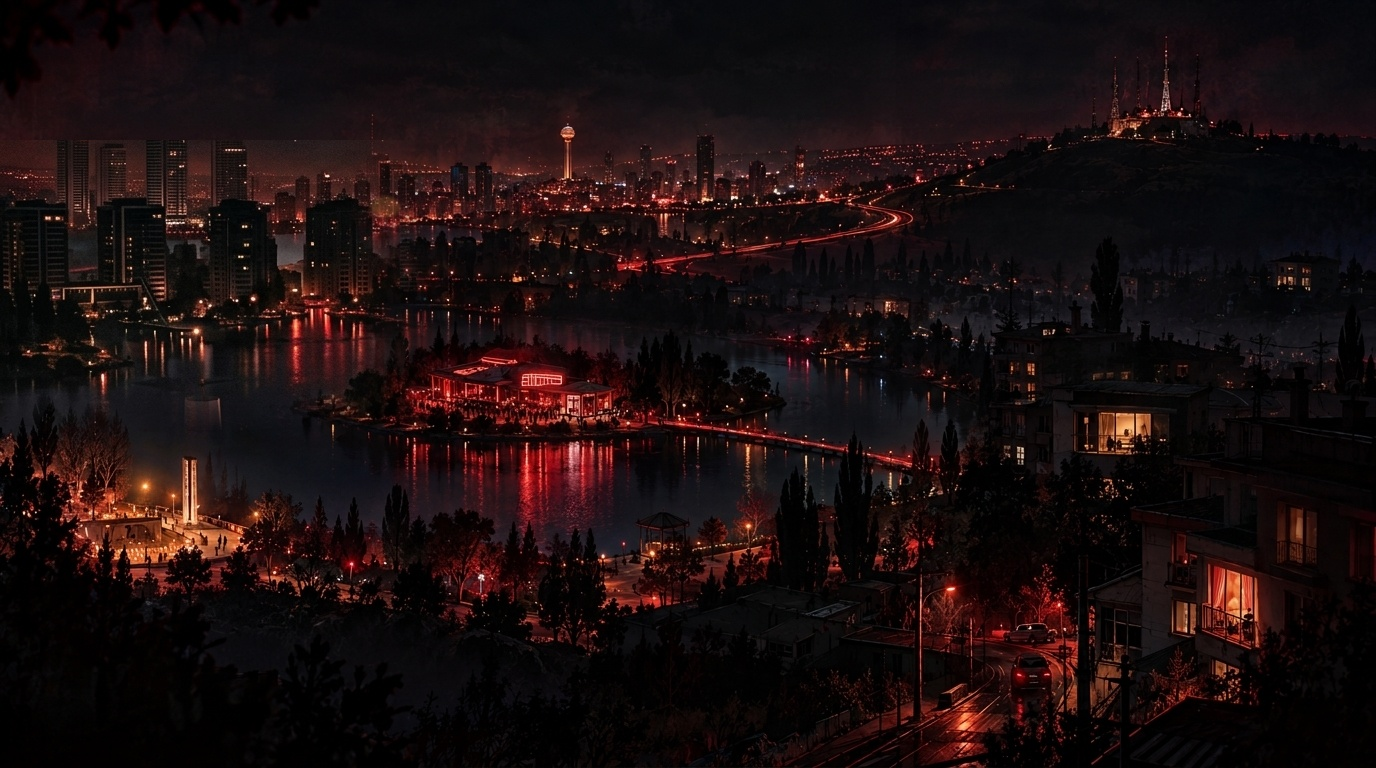
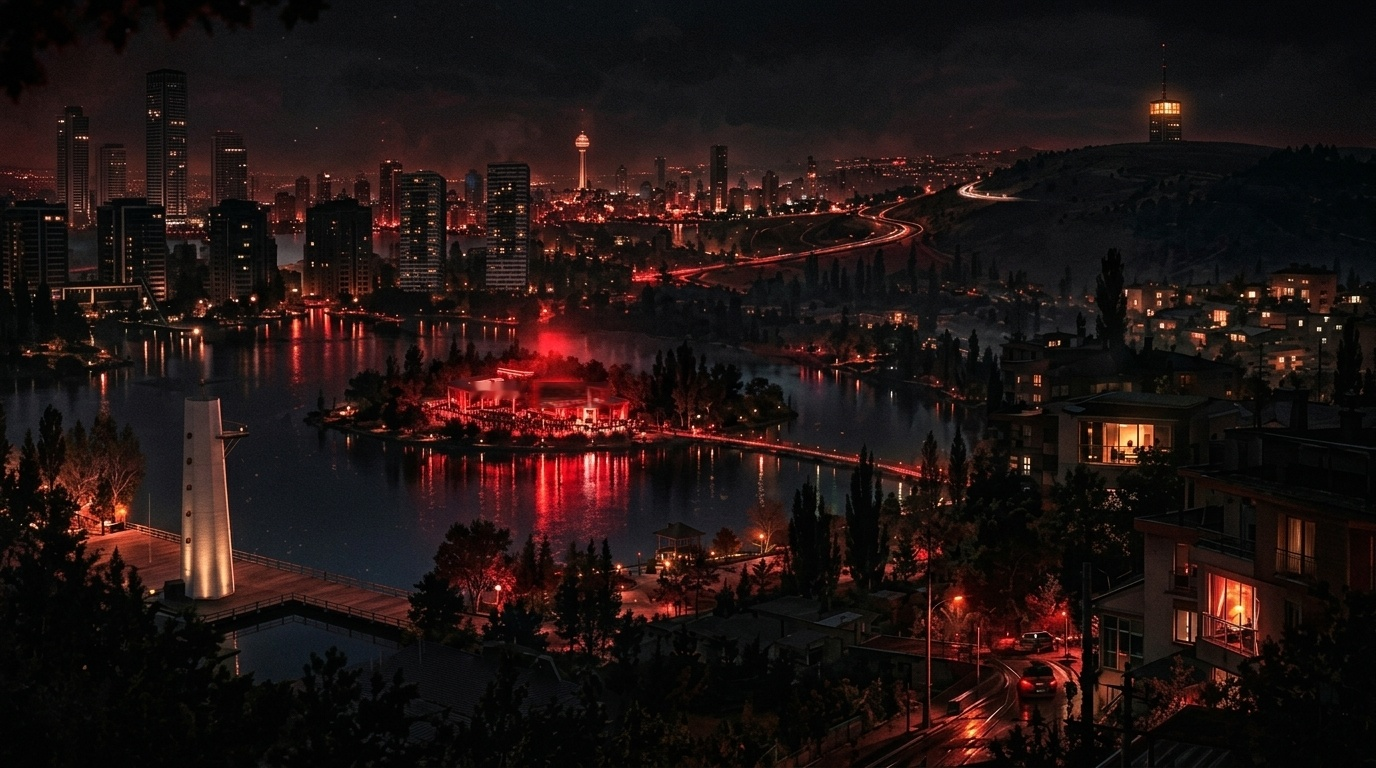
fix(sussuz): restore canon cast Tekin/Murad & Yusuf/Kerem with open-top Mustang 06 KNN 03, clean master map with no tacky signs, and fix Bahar memorial cake scene

Changed region(s): [[0.0, 0.0938, 1.0, 1.0], [0.5312, 0.9688, 0.5938, 1.0], [0.875, 0.5, 0.9062, 0.5312]]

diff --git a/sussuz/assets/js/app.js b/sussuz/assets/js/app.js
@@ -19,13 +19,13 @@ document.addEventListener("DOMContentLoaded", () => {
       ctaTarget: "ritim_interior",
       image: "assets/img/loc_ritim.jpg",
       characterId: "ekrem",
-      characterName: "Ekrem ve Murat",
+      characterName: "Kerem ve Murad",
       characterRole: "Kulüp Önü ve Bağlantı Yolu",
-      atmosphere: "Gerçekte Göksu Parkı'ndaki adada yer alan restoranın yerine konumlanan gece kulübü. Girişte bekleyen kalabalık, kapı güvenliği ve yoldan uzaklaşmakta olan Murat'ın arabası.",
+      atmosphere: "Gerçekte Göksu Parkı'ndaki adada yer alan restoranın yerine konumlanan gece kulübü. Girişte bekleyen kalabalık, kapı güvenliği ve yoldan uzaklaşmakta olan Murad'ın arabası.",
       musicNote: "Filtrelenmiş 4/4 Sub-Bass & Araba Uğultusu",
       subvenues: [
         { id: "ritim_interior", label: "İçeri Gir (Genel Salon)" },
-        { id: "ritim_road", label: "Murat'ı Durdur (Yol Sahnesi)" }
+        { id: "ritim_road", label: "Murad'ı Durdur (Yol Sahnesi)" }
       ],
       noteOrigin: "RİTİM Giriş Panosu",
       props: [
@@ -39,11 +39,11 @@ document.addEventListener("DOMContentLoaded", () => {
           target: "ritim_interior"
         },
         {
-          name: "MURAT'I DURDUR",
+          name: "MURAD'I DURDUR",
           icon: "✋",
           thumb: "assets/img/props/prop_murat_hill.jpg",
           subtitle: "1. BÖLÜM FİNALİ",
-          desc: "Ekrem'in yola atlayarak arabayı durdurduğu 1. bölüm final sahnesi.",
+          desc: "Kerem'in yola atlayarak arabayı durdurduğu 1. bölüm final sahnesi.",
           action: "fly_subvenue",
           target: "ritim_road"
         }
@@ -63,12 +63,12 @@ document.addEventListener("DOMContentLoaded", () => {
       ctaAudio: "KFrAv440Rmg",
       image: "assets/img/loc_ritim_interior.jpg",
       characterId: "murat_ekrem_balcony",
-      characterName: "Murat ve Ekrem",
+      characterName: "Murad ve Kerem",
       characterRole: "Pist Kenarında Sahneye Bakış // 'Oğlum...'",
-      atmosphere: "Müzik değişiyor. Karanlık ekranlar bir anda açılıyor. Dev ekranda KENAN, RİTİM logosu... Yeni parçanın prömiyeri: HIRSIZ. İlk beat giriyor, kalabalık bağırıyor. Murat duruyor; oğlunu ekranda görüyor. Ekrem elini uzatıyor: 'Oğlunun şarkısında surat asma. Ayıp lan çocuğa!'",
+      atmosphere: "Müzik değişiyor. Karanlık ekranlar bir anda açılıyor. Dev ekranda KENAN, RİTİM logosu... Yeni parçanın prömiyeri: HIRSIZ. İlk beat giriyor, kalabalık bağırıyor. Murad duruyor; oğlunu ekranda görüyor. Kerem elini uzatıyor: 'Oğlunun şarkısında surat asma. Ayıp lan çocuğa!'",
       musicNote: "HIRSIZ — Kenan Sahne Prömiyeri (124 BPM)",
       subvenues: [
-        { id: "dancefloor", label: "Murat'ı Dansa Götür (Pist)" },
+        { id: "dancefloor", label: "Murad'ı Dansa Götür (Pist)" },
         { id: "goksu_room", label: "Göksu'nun Cam Ofisi" },
         { id: "ritim_vip", label: "VIP Loca (Yazılıyor :D)" },
         { id: "ritim_backstage", label: "Backstage / Kulis" },
@@ -96,11 +96,11 @@ document.addEventListener("DOMContentLoaded", () => {
           target: "goksu_room"
         },
         {
-          name: "MURAT VE EKREM",
+          name: "MURAD VE KEREM",
           icon: "💬",
           thumb: "assets/img/props/prop_murat_ekrem.jpg",
           subtitle: "'OĞLUM...' DİYALOĞU",
-          desc: "Murat oğlunu dev ekranda görünce donakalır: 'Ben yapamadım... Göksu yaptı.'",
+          desc: "Murad oğlunu dev ekranda görünce donakalır: 'Ben yapamadım... Göksu yaptı.'",
           action: "dialogue",
           charId: "murat_ekrem_balcony"
         },
@@ -109,7 +109,7 @@ document.addEventListener("DOMContentLoaded", () => {
           icon: "⚡",
           thumb: "assets/img/props/prop_dancefloor.jpg",
           subtitle: "KALABALIK VE TEMAS",
-          desc: "Ekrem elini uzatır, Murat'ı gülerek pistin içine çeker.",
+          desc: "Kerem elini uzatır, Murad'ı gülerek pistin içine çeker.",
           action: "fly_subvenue",
           target: "dancefloor"
         }
@@ -125,13 +125,13 @@ document.addEventListener("DOMContentLoaded", () => {
       time: "04:30",
       period: "Günümüz",
       ctaIcon: "✋",
-      ctaText: "MURAT'I DURDUR",
+      ctaText: "MURAD'I DURDUR",
       ctaAction: "prop",
       image: "assets/img/loc_ritim_road.jpg",
       characterId: "ekrem",
-      characterName: "Ekrem ve Murat",
+      characterName: "Kerem ve Murad",
       characterRole: "1. Bölüm Finali // Dönüm Noktası",
-      atmosphere: "1. Bölüm final sahnesi. Yağmur ıslaklığı, asfalt parıltısı. Ekrem tam arabaya binecekken Murat'ı durdurur: 'Sana gerisini göstereceğim.' Murat arabayı kilitler, geri döner. İki yabancının kaderinin düğümlendiği an.",
+      atmosphere: "1. Bölüm final sahnesi. Yağmur ıslaklığı, asfalt parıltısı. Kerem tam arabaya binecekken Murad'ı durdurur: 'Sana gerisini göstereceğim.' Murad arabayı kilitler, geri döner. İki yabancının kaderinin düğümlendiği an.",
       musicNote: "Bilmem, Ben De — Kuru Gece Ayazı",
       subvenues: [
         { id: "ritim", label: "Giriş / Ada" },
@@ -170,9 +170,9 @@ document.addEventListener("DOMContentLoaded", () => {
       ctaAction: "prop",
       image: "assets/img/scene_dancefloor.png",
       characterId: "ekrem",
-      characterName: "Ekrem ve Murat",
+      characterName: "Kerem ve Murad",
       characterRole: "Pist İçi Yakınlaşma",
-      atmosphere: "Ritim'in dans pisti. Baslar duvarları titretiyor. Ekrem Murat'ın ensesine dokunur: 'Öbür tarafa gitsen bara giricen.' Murat güler. MURAT: 'Olm, polisim ben!' — EKREM: 'Merhaba ben de torbacı :D'",
+      atmosphere: "Ritim'in dans pisti. Baslar duvarları titretiyor. Kerem Murad'ın ensesine dokunur: 'Öbür tarafa gitsen bara giricen.' Murad güler. MURAD: 'Olm, polisim ben!' — KEREM: 'Merhaba ben de torbacı :D Kerem ben… Si ile… ama sen kısaca Eku diyebilirsin'",
       musicNote: "HIRSIZ — Dans Pisti Miksi (Club Edit)",
       subvenues: [
         { id: "ritim_interior", label: "Genel Salona Dön" },
@@ -188,14 +188,14 @@ document.addEventListener("DOMContentLoaded", () => {
           icon: "⚡",
           thumb: "assets/img/props/prop_dancefloor.jpg",
           subtitle: "KONTROLÜN KAYBI",
-          desc: "EKREM: 'Öbür tarafa gitsen bara giricen yarram.' Murat güler; hayatında ilk defa kontrolü bırakır."
+          desc: "KEREM: 'Öbür tarafa gitsen bara giricen yarram.' Murad güler; hayatında ilk defa kontrolü bırakır."
         },
         {
           name: "POLİS VE TORBACI",
           icon: "💬",
           thumb: "assets/img/props/prop_murat_ekrem.jpg",
           subtitle: "TANIŞMA ANI",
-          desc: "MURAT: 'Olm, polisim ben!' — EKREM (elini uzatarak): 'Merhaba ben de torbacı :D'",
+          desc: "MURAD: 'Olm, polisim ben!' — KEREM (elini uzatarak): 'Merhaba ben de torbacı :D Kerem ben… Si ile… ama sen kısaca Eku de'",
           action: "dialogue",
           charId: "ekrem"
         }
@@ -217,7 +217,7 @@ document.addEventListener("DOMContentLoaded", () => {
       characterId: "kenan",
       characterName: "Göksu ve Kenan",
       characterRole: "Ritim'in Sahibi & Genç Müzisyen",
-      atmosphere: "Göksu masasında oturuyor. Duvarda neon ve viski şişeleri. Kenan köşede akustik gitarıyla hafif bir melodi çalıyor. Göksu masadaki yarım dosyayı Murat'a uzatır: 'Yarım dosya... Yarısı yeter.'",
+      atmosphere: "Göksu masasında oturuyor. Duvarda neon ve viski şişeleri. Kenan köşede akustik gitarıyla hafif bir melodi çalıyor. Göksu masadaki yarım dosyayı Murad'a uzatır: 'Yarım dosya... Yarısı yeter.'",
       musicNote: "Bu Şarkıyı Kaybedemem — Akustik Demo",
       subvenues: [
         { id: "dancefloor", label: "Dans Pistine Bak" },

diff --git a/sussuz/assets/js/canvas-map.js b/sussuz/assets/js/canvas-map.js
@@ -273,8 +273,8 @@ class SpatialUniverse {
         { 
           id: "lake_candle_blow", 
           name: "DOĞUM GÜNÜ PASTASI", 
-          relX: 0.520, 
-          relY: 0.740, 
+          relX: 0.500, 
+          relY: 0.865, 
           icon: "🕯", 
           subtitle: "DİLEK İÇİN BİR DİLEK TUT // ANMA", 
           action: "candle", 
@@ -284,7 +284,7 @@ class SpatialUniverse {
           id: "lake_candle_dialogue", 
           name: "BAHAR İLE YÜZLEŞ", 
           relX: 0.500, 
-          relY: 0.440, 
+          relY: 0.560, 
           icon: "💬", 
           subtitle: "SÖYLENMEYENLERİN BAŞLANGICI", 
           action: "dialogue", 
@@ -295,7 +295,7 @@ class SpatialUniverse {
           id: "lake_lighthouse_distant", 
           name: "GÖKSU DENİZ FENERİ", 
           relX: 0.755, 
-          relY: 0.510, 
+          relY: 0.280, 
           icon: "🌊", 
           subtitle: "GÖLÜN KARŞI KIYISINDAKİ IŞIK", 
           desc: "Gölün karşı kıyısındaki ışık ve su yansıması." 
@@ -303,8 +303,8 @@ class SpatialUniverse {
         { 
           id: "lake_candle_to_pier", 
           name: "FENERİN DİBİNDEKİ İSKELE", 
-          relX: 0.630, 
-          relY: 0.865, 
+          relX: 0.820, 
+          relY: 0.880, 
           icon: "🪵", 
           subtitle: "TAHTASI NOT BIRAK", 
           action: "fly_subvenue", 
@@ -449,9 +449,9 @@ class SpatialUniverse {
       ],
 
       goksu_room: [
-        { id: "office_window", name: "CAMDAN PİSTİ İZLE", relX: 0.407, relY: 0.390, icon: "🪟", subtitle: "AŞAĞIDAKİ PİST LOŞ BİR AKVARYUM GİBİ", action: "fly_subvenue", target: "dancefloor", desc: "Camdan aşağıdaki dans pistine bakın; Murat ve Ekrem'in dans ettiği kalabalık görünüyor." },
+        { id: "office_window", name: "CAMDAN PİSTİ İZLE", relX: 0.407, relY: 0.390, icon: "🪟", subtitle: "AŞAĞIDAKİ PİST LOŞ BİR AKVARYUM GİBİ", action: "fly_subvenue", target: "dancefloor", desc: "Camdan aşağıdaki dans pistine bakın; Murad ve Kerem'in dans ettiği kalabalık görünüyor." },
         { id: "office_dialogue", name: "GÖKSU İLE YÜZLEŞ", relX: 0.225, relY: 0.703, icon: "💬", subtitle: "KENAN GÖKSU'YU OYALIYOR", action: "dialogue", charId: "kenan", desc: "Kenan ve Göksu ile konuşun." },
-        { id: "office_file", name: "DOSYAYI AÇ", relX: 0.545, relY: 0.755, icon: "📁", subtitle: "BAHAR / DENİZ // YARIM KALAN SORUŞTURMA", action: "prop", propName: "Bahar / Deniz Dosyası", desc: "Göksu Murat'a: 'Yarım dosya... Yarısı yeter. Ne bildiğini öğren. Kiminle konuşman gerekiyorsa konuş.'" },
+        { id: "office_file", name: "DOSYAYI AÇ", relX: 0.545, relY: 0.755, icon: "📁", subtitle: "BAHAR / DENİZ // YARIM KALAN SORUŞTURMA", action: "prop", propName: "Bahar / Deniz Dosyası", desc: "Göksu Murad'a: 'Yarım dosya... Yarısı yeter. Ne bildiğini öğren. Kiminle konuşman gerekiyorsa konuş.'" },
         { id: "office_song", name: "KAYBI DİNLE", relX: 0.727, relY: 0.716, icon: "🎵", subtitle: "KENAN — BU ŞARKIYI KAYBEDEMEM // SUSSUZ SOUNDTRACK", action: "music", src: "assets/audio/track_kaybedemem.mp3", desc: "Kenan'ın Göksu'ya dinlettiği parça: 'Duvarlarda izin / Odalarda sesin / Geçti modası artık o eski senin...'" },
         { id: "office_return", name: "CAM OFİSTEN ÇIK", relX: 0.920, relY: 0.650, icon: "🚪", subtitle: "RİTİM'E GERİ DÖN", action: "fly_subvenue", target: "ritim", desc: "Dışarıya dönün." }
       ],
@@ -473,8 +473,8 @@ class SpatialUniverse {
         { 
           id: "hill_smoke", 
           name: "SİGARAYI PAYLAŞ", 
-          relX: 0.675, 
-          relY: 0.485, 
+          relX: 0.515, 
+          relY: 0.415, 
           icon: "🚬", 
           subtitle: "05:30 // ANKARA AYAZI // 'YANLIŞSA DA BENİM YANLIŞIM OLUR'", 
           action: "prop", 
@@ -484,8 +484,8 @@ class SpatialUniverse {
         { 
           id: "hill_dialogue", 
           name: "MURAD İLE KONUŞ", 
-          relX: 0.600, 
-          relY: 0.530, 
+          relX: 0.450, 
+          relY: 0.540, 
           icon: "💬", 
           subtitle: "MURAD VE KEREM // 'SENDE Bİ ŞEY VAR, İÇİM YAMUK DEMEDİ'", 
           action: "dialogue", 
@@ -495,7 +495,7 @@ class SpatialUniverse {
         { 
           id: "hill_ekrem_dialogue", 
           name: "KEREM İLE KONUŞ", 
-          relX: 0.760, 
+          relX: 0.630, 
           relY: 0.540, 
           icon: "💬", 
           subtitle: "KEREM'Sİ (EKU) // GÜVEN VE YANILGI", 
@@ -506,8 +506,8 @@ class SpatialUniverse {
         { 
           id: "hill_music", 
           name: "BİLMEM, BEN DE'Yİ DİNLE", 
-          relX: 0.400, 
-          relY: 0.580, 
+          relX: 0.280, 
+          relY: 0.640, 
           icon: "📻", 
           subtitle: "MURAD — BİLMEM, BEN DE // SUSSUZ SOUNDTRACK", 
           action: "music", 
@@ -518,8 +518,8 @@ class SpatialUniverse {
         { 
           id: "hill_note", 
           name: "MUSTANG'E BİR NOT BIRAK", 
-          relX: 0.685, 
-          relY: 0.860, 
+          relX: 0.320, 
+          relY: 0.890, 
           icon: "✍", 
           subtitle: "06 KNN 03 // TORPİDOYA FISILDA", 
           action: "note", 
@@ -1515,7 +1515,7 @@ class SpatialUniverse {
     ctx.font = `600 ${Math.max(9, Math.floor(tvH * 0.055))}px 'JetBrains Mono', monospace`;
     ctx.fillStyle = pulseRed ? "#ff4d4f" : "#821a1a";
     ctx.textAlign = "left";
-    ctx.fillText("● REC // GOSPEL BABY — EKREM VOCAL TAKE 01", tvLeft + tvW * 0.05, tvTop + tvH * 0.12);
+    ctx.fillText("● REC // GOSPEL BABY — KEREM VOCAL TAKE 01", tvLeft + tvW * 0.05, tvTop + tvH * 0.12);
 
     ctx.strokeStyle = "rgba(255, 255, 255, 0.08)";
     ctx.lineWidth = 1;
